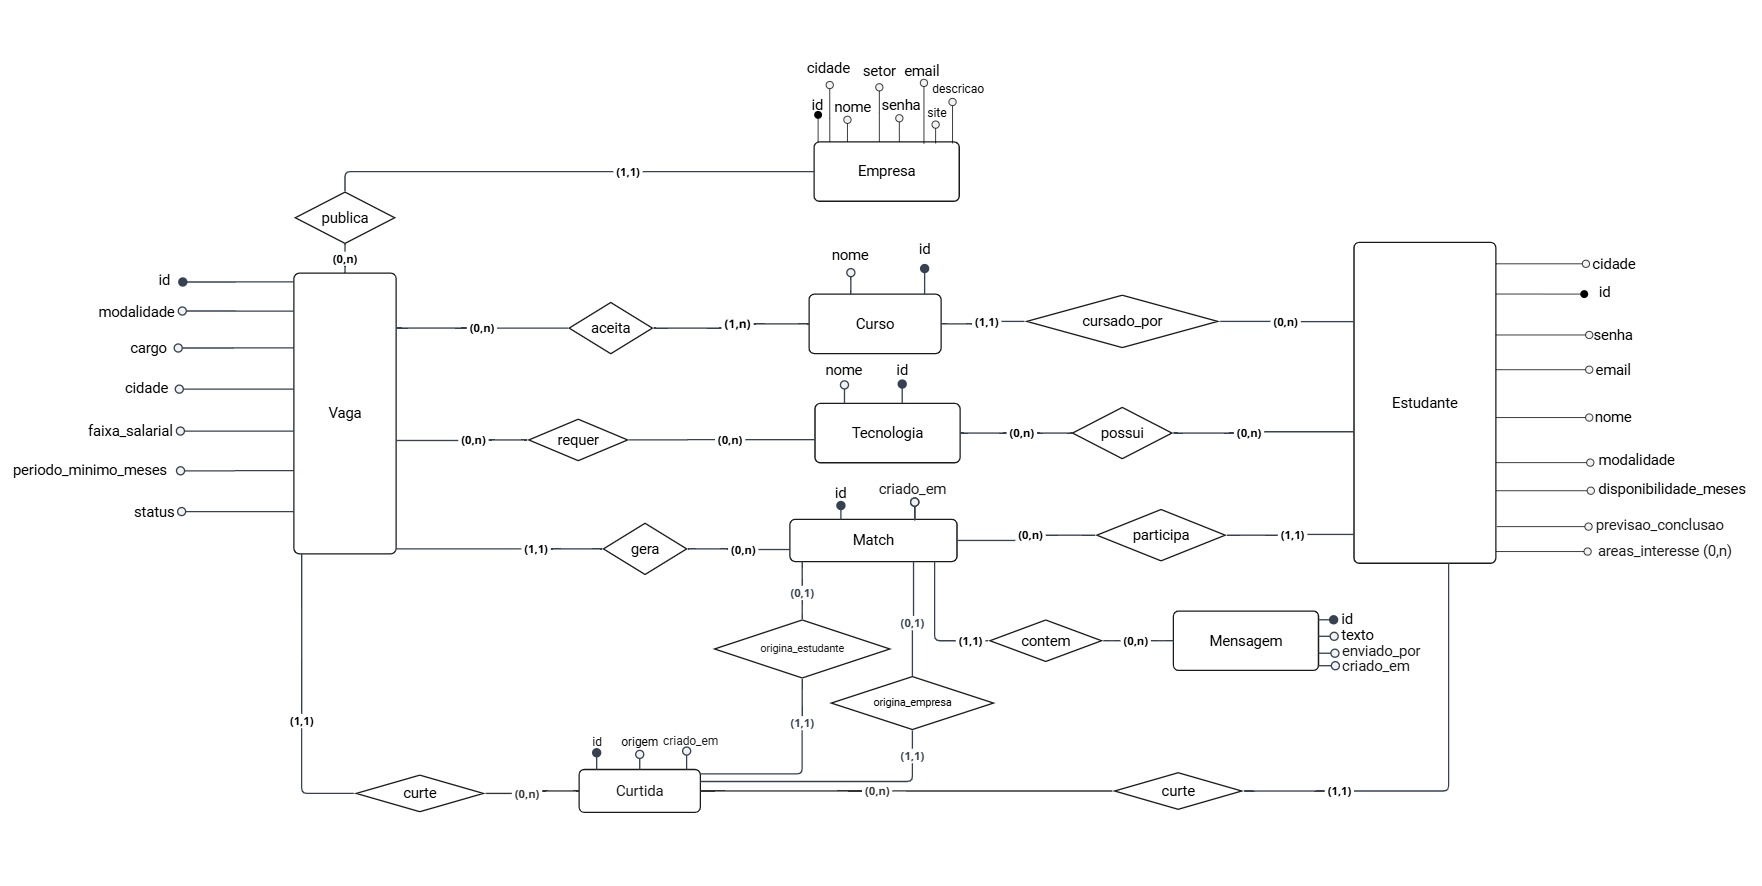
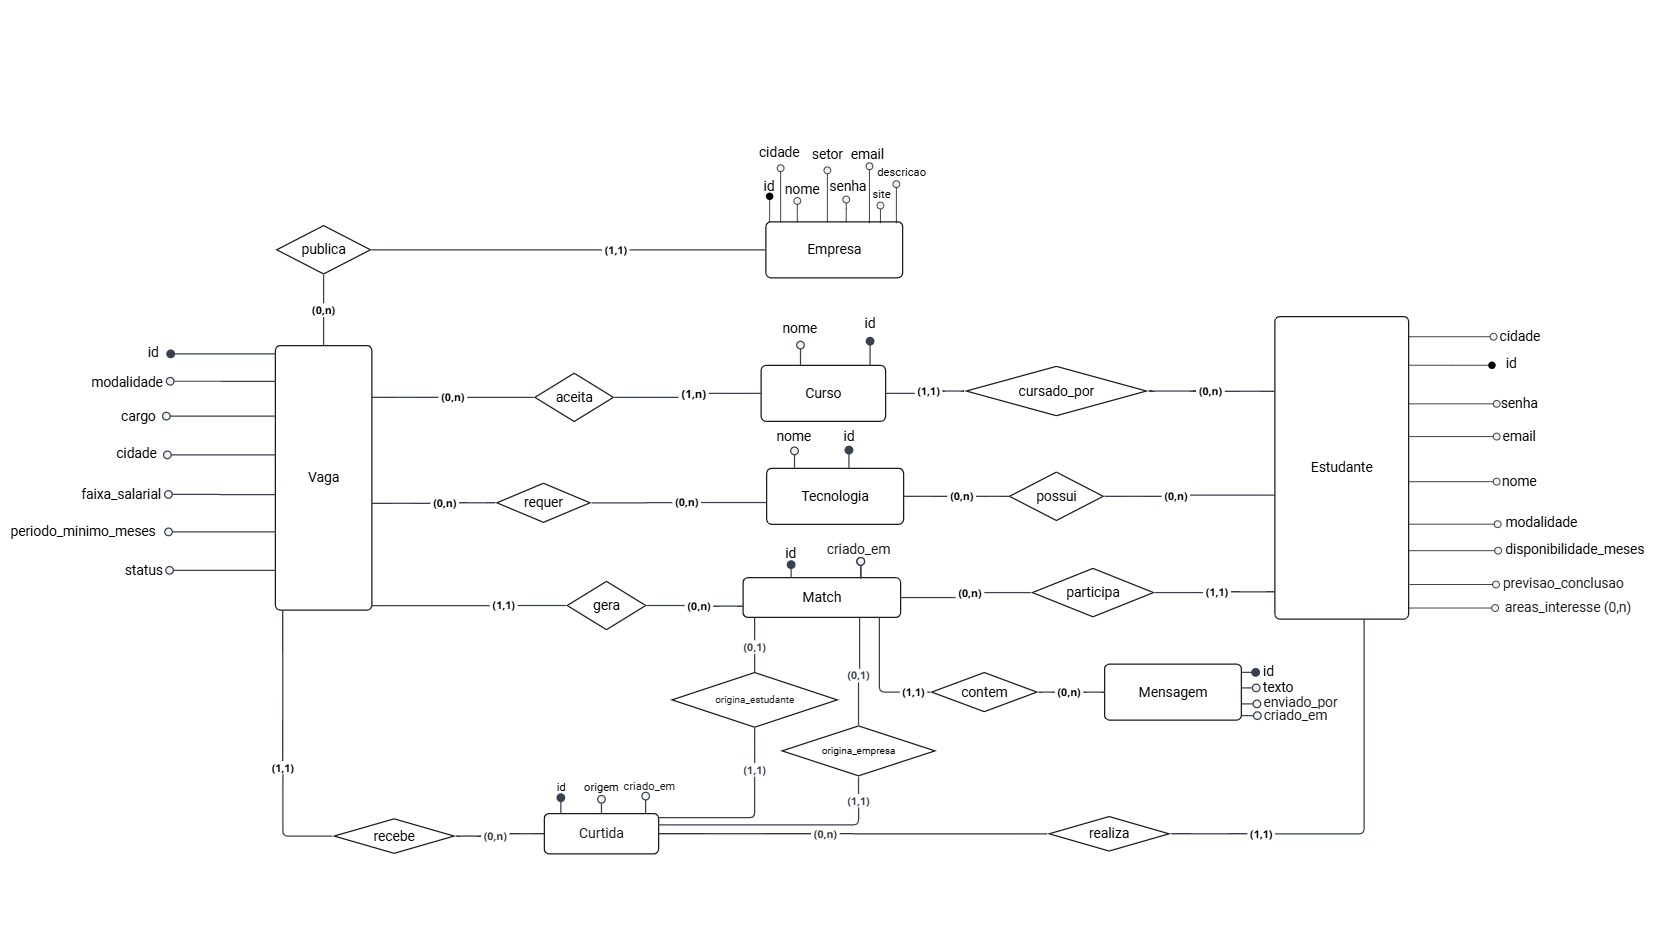
Atualiza o diagrama ER e revisa a secao de curtidas e matches do back
- docs: novo modelo-er.jpg e Modelo-ER.pdf.
- README: a imagem do diagrama passa a ser o arquivo docs/modelo-er.jpg
  (acompanha o repositorio, sem depender de upload).
- back/README: formato das respostas de likes e matches, erro 400 para origem
  invalida e o caso de match ja existente.

diff --git a/back/README.md b/back/README.md
@@ -115,11 +115,12 @@ Alterar status, excluir e ver os candidatos só é permitido para a empresa dona
   - `origem: "estudante"`: o estudante logado curtiu a vaga (o `estudanteId` precisa ser o dele).
   - `origem: "empresa"`: a empresa logada curtiu o estudante **para uma vaga que é dela** (`403` caso contrário).
   - Cada chamada registra uma **Curtida** do ER (`origem`, `estudante_id`, `vaga_id`). Curtir duas vezes não duplica: o banco tem `UNIQUE (estudante_id, vaga_id, origem)`.
-  - Se os dois lados já curtiram o mesmo par (estudante, vaga), o **Match** é criado na hora e a resposta é `{ houveMatch: true, match }`. O match guarda as duas curtidas que o originaram (`curtida_estudante_id` = `origina_estudante` e `curtida_empresa_id` = `origina_empresa`), então só existe com as duas. Se ainda falta um dos lados, a resposta é `{ houveMatch: false }`.
-  - Erros: `400` se faltar `origem`, `estudanteId` ou `vagaId`, ou se a vaga estiver encerrada; `403` se a ação for de outra pessoa; `404` se a vaga ou o estudante não existir.
-- `GET /api/matches` — os matches de quem está logado: do estudante, ou de todas as vagas da empresa
+  - Se os dois lados já curtiram o mesmo par (estudante, vaga), o **Match** é criado na hora e a resposta é `{ houveMatch: true, match }`, com `match` no formato `{ id, criadoEm, estudanteId, vagaId }`. Se o match daquele par já existia, a API devolve o mesmo match, sem criar outro. Se ainda falta um dos lados, a resposta é `{ houveMatch: false }`.
+  - No banco, o match guarda as duas curtidas que o originaram (`curtida_estudante_id`, relacionamento `origina_estudante`, e `curtida_empresa_id`, relacionamento `origina_empresa`), então só existe com as duas. Esses ids ficam no banco e **não** aparecem na resposta da API.
+  - Erros: `400` se faltar `origem`, `estudanteId` ou `vagaId`, se `origem` não for `estudante` nem `empresa`, ou se a vaga estiver encerrada; `403` se a ação for de outra pessoa; `404` se a vaga ou o estudante não existir.
+- `GET /api/matches` — os matches de quem está logado: do estudante, ou de todas as vagas da empresa. Cada item vem como `{ id, criadoEm, estudanteId, vagaId, vaga: { id, cargo, empresa }, estudante: { id, nome, curso } }`
 - `GET /api/matches?vagaId=1` — só os de uma vaga
-- `GET /api/matches?...&desde=2026-11-01T00:00:00.000Z` — só os matches criados a partir da data (é o que o painel da empresa usa para "Matches este mês")
+- `GET /api/matches?...&desde=2026-11-01T00:00:00.000Z` — só os matches criados a partir da data (é o que o painel da empresa usa para "Matches este mês"). Uma data inválida retorna `400`
 
 ### Chat
 - `GET /api/mensagens/:matchId` — histórico de mensagens de um match

diff --git a/README.md b/README.md
@@ -42,7 +42,7 @@ Assista ao vídeo de apresentação do projeto: [COLE-O-LINK-AQUI](COLE-O-LINK-A
 
 ## Modelo conceitual (diagrama ER)
 
-<img width="1180" height="696" alt="image" src="https://github.com/user-attachments/assets/dcdd994e-c6fa-4b67-bc90-b874f1b03897" />
+<img src="docs/modelo-er.jpg" alt="Diagrama ER do ConetaAI" width="1180" />
 
 
 Arquivo original em PDF: [docs/Modelo-ER.pdf](docs/Modelo-ER.pdf)
